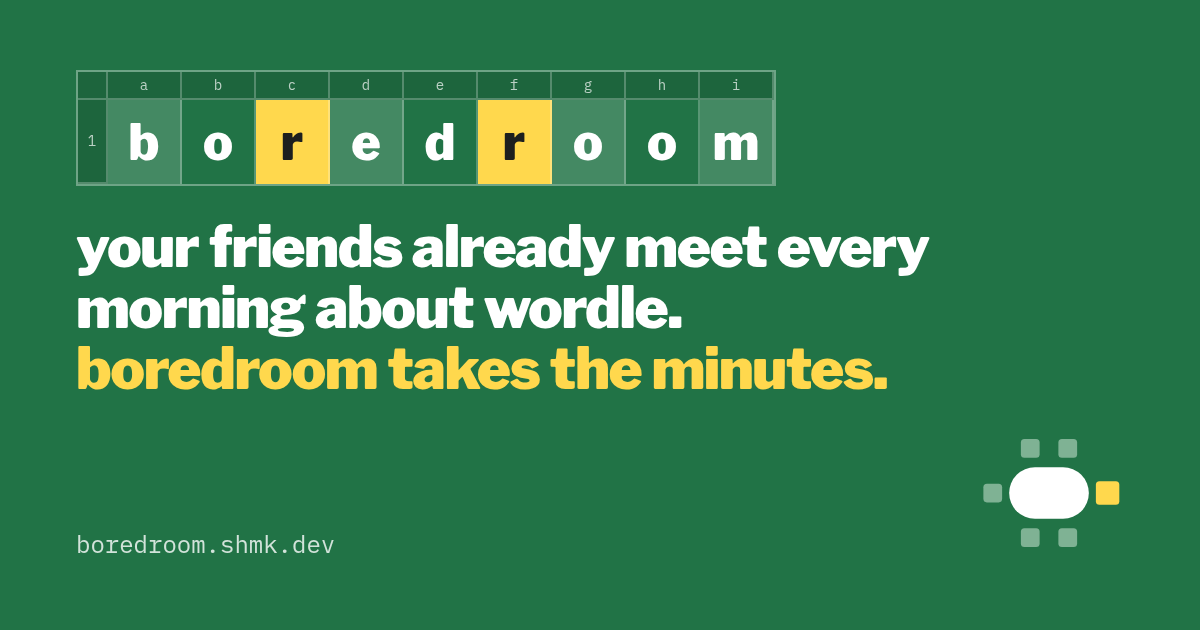
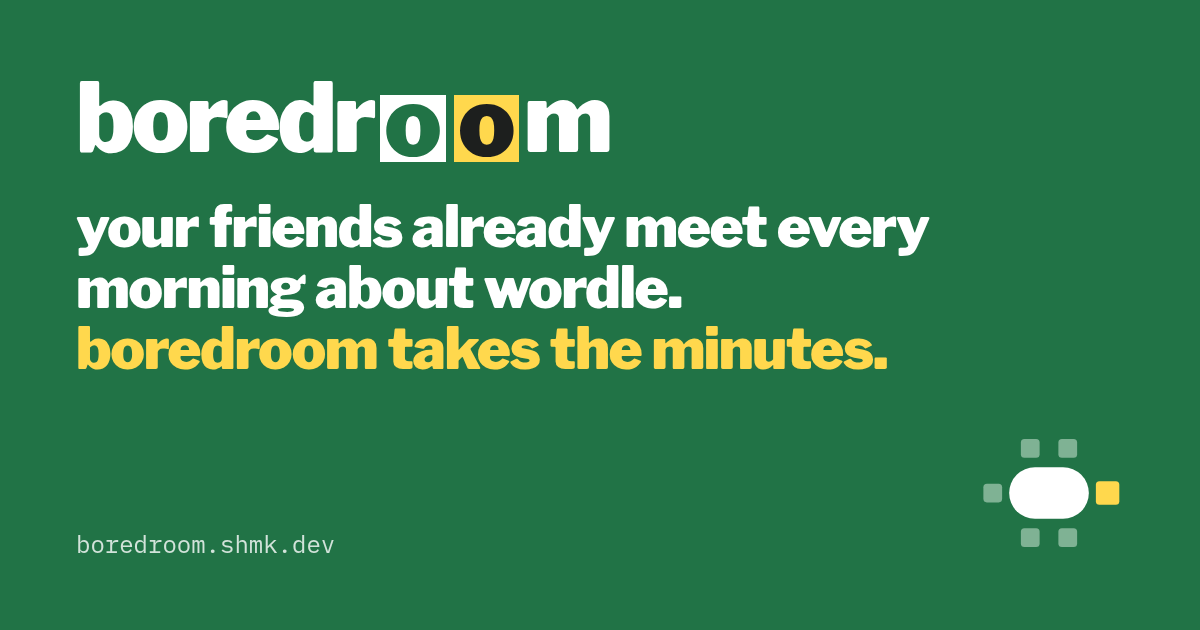
Login polish, wordmark a, animated theme switch, timezone aliases
- One logo in the room header (wordmark a, centred); the switch sits apart.
- Theme switch: a sun/moon knob that rolls across; the new theme spreads in a
  circle from the tap (view transitions; plain switch with reduced motion).
- Google's button is redrawn in a layer over the old one, so it never jumps.
- Copy: keeps the minutes, the scores, and the receipts.
- Old browser timezone names (Asia/Calcutta) are mapped, the tzdata package
  ships every zone, and an unknown zone falls back instead of failing sign-in.

Changed region(s): [[0.0617, 0.3317, 0.7708, 0.6333], [0.0617, 0.0905, 0.6475, 0.3016]]

diff --git a/web/src/styles.css b/web/src/styles.css
@@ -179,31 +179,49 @@ a { color: var(--accent); }
 @media (prefers-reduced-motion: reduce) { * { animation: none !important; } }
 
 /* ---- brand ---- */
-.wm { display: inline-grid; grid-template-columns: calc(var(--cell) * .45) repeat(9, var(--cell)); border: 1px solid var(--wm-line); font-family: "IBM Plex Mono", monospace; width: max-content; }
-.wm i, .wm b { border-right: 1px solid var(--wm-line); display: grid; place-items: center; font-style: normal; }
-.wm i:nth-child(10), .wm b:last-child { border-right: 0; }
-.wm-h { height: calc(var(--cell) * .42); font-size: calc(var(--cell) * .26); background: var(--wm-head); color: var(--wm-head-ink); border-bottom: 1px solid var(--wm-line); }
-.wm-n { height: auto; border-bottom: 0; }
-.wm-c { height: var(--cell); font: 900 calc(var(--cell) * .6) "Libre Franklin", Arial, sans-serif; background: var(--wm-n); color: var(--wm-n-ink); }
-.wm-c.g { background: var(--wm-g); color: var(--wm-g-ink); }
-.wm-c.y { background: var(--wm-y); color: var(--wm-y-ink); }
-.wm.on-dark { --wm-line: rgba(255,255,255,.3); --wm-head: rgba(0,0,0,.14); --wm-head-ink: rgba(255,255,255,.75);
-  --wm-n: transparent; --wm-n-ink: #fff; --wm-g: rgba(255,255,255,.16); --wm-g-ink: #fff; --wm-y: #ffd84d; --wm-y-ink: #1d1f1e; }
-:root[data-theme="dark"] .wm.on-dark { --wm-y: #ffd38a; --wm-g-ink: #5ee6a8; }
-@media (prefers-color-scheme: dark) { :root:not([data-theme="light"]) .wm.on-dark { --wm-y: #ffd38a; --wm-g-ink: #5ee6a8; } }
+.wm { --wm-ink: var(--ink); --c1: var(--mark-tile); --c1-ink: #fff; --c2: #ffd84d; --c2-ink: #1d1f1e;
+  display: inline-flex; align-items: baseline; font: 900 1em/1 "Libre Franklin", Arial, sans-serif; letter-spacing: -.035em;
+  color: var(--wm-ink); white-space: nowrap; }
+.wm i { font-style: normal; display: inline-block; width: .68em; height: .7em; line-height: .56em; text-align: center; letter-spacing: 0;
+  margin: 0 .045em; position: relative; top: .04em; } /* the cell hugs the o: x-height to just under the baseline */
+.wm i.c1 { background: var(--c1); color: var(--c1-ink); margin-left: .07em; }
+.wm i.c2 { background: var(--c2); color: var(--c2-ink); }
+.wm.on-room { --wm-ink: var(--room-ink); --c1: #ffffff; --c1-ink: #217346; font-size: clamp(30px, 8vw, 40px); }
+:root[data-theme="dark"] .wm { --c1: #5ee6a8; --c1-ink: #0b1a14; --c2: #ffd38a; --c2-ink: #0b1a14; }
+@media (prefers-color-scheme: dark) { :root:not([data-theme="light"]) .wm { --c1: #5ee6a8; --c1-ink: #0b1a14; --c2: #ffd38a; --c2-ink: #0b1a14; } }
+.nav-brand .wm { font-size: 22px; }
 
-.theme-tg { width: 40px; height: 40px; flex: none; display: grid; place-items: center; border-radius: 20px; cursor: pointer;
-  background: transparent; border: 1px solid var(--line); color: inherit; }
-.theme-tg:hover { background: var(--surface); }
-.hd .theme-tg { border-color: rgba(255,255,255,.3); width: 34px; height: 34px; }
-.hd .theme-tg:hover { background: rgba(255,255,255,.12); }
+/* the theme switch: a track with a sun/moon knob that rolls across; stars come out in dark */
+.theme-tg { --track: #e3ece6; --knob: #ffd84d; --knob-ink: #8a5a00; position: relative; flex: none; width: 60px; height: 32px;
+  border-radius: 16px; border: 1px solid var(--line); background: var(--track); cursor: pointer; padding: 0; overflow: hidden;
+  transition: background .4s ease, border-color .4s ease; }
+.theme-tg[data-mode="dark"] { --track: #1b2740; --knob: #dfe6ff; --knob-ink: #3b4a7a; }
+.theme-tg .knob { position: absolute; top: 3px; left: 3px; width: 24px; height: 24px; border-radius: 50%; background: var(--knob); color: var(--knob-ink);
+  display: grid; place-items: center; box-shadow: 0 1px 3px rgba(0,0,0,.25);
+  transition: transform .5s cubic-bezier(.45,1.6,.5,1), background .4s ease, color .4s ease; }
+.theme-tg[data-mode="dark"] .knob { transform: translateX(28px) rotate(-270deg); }
+.theme-tg .knob svg { position: absolute; width: 15px; height: 15px; transition: opacity .3s ease, transform .5s ease; }
+.theme-tg .moon { opacity: 0; transform: scale(.4); }
+.theme-tg[data-mode="dark"] .sun { opacity: 0; transform: scale(.4); }
+.theme-tg[data-mode="dark"] .moon { opacity: 1; transform: none; }
+.theme-tg .stars i { position: absolute; width: 3px; height: 3px; border-radius: 50%; background: #fff; opacity: 0; transform: scale(0);
+  transition: opacity .3s ease, transform .4s cubic-bezier(.45,1.6,.5,1); }
+.theme-tg .stars i:nth-child(1) { left: 10px; top: 8px; } .theme-tg .stars i:nth-child(2) { left: 19px; top: 18px; width: 2px; height: 2px; }
+.theme-tg .stars i:nth-child(3) { left: 8px; top: 21px; width: 2px; height: 2px; }
+.theme-tg[data-mode="dark"] .stars i { opacity: .9; transform: none; transition-delay: .15s; }
+.theme-tg[data-mode="dark"] .stars i:nth-child(2) { transition-delay: .25s; } .theme-tg[data-mode="dark"] .stars i:nth-child(3) { transition-delay: .32s; }
+.theme-tg:hover .knob { box-shadow: 0 0 0 4px var(--ring), 0 1px 3px rgba(0,0,0,.25); }
+.theme-tg:focus-visible { outline: 2px solid var(--accent); outline-offset: 2px; }
+.room-top .theme-tg { border-color: rgba(255,255,255,.3); }
+.room-top .theme-tg:not([data-mode="dark"]) { --track: rgba(255,255,255,.18); }
+::view-transition-old(root), ::view-transition-new(root) { animation: none; mix-blend-mode: normal; }
+@media (prefers-reduced-motion: reduce) { .theme-tg *, .theme-tg { transition: none !important; } }
 
 /* ---- sign-in: the boardroom ---- */
 .signin { min-height: 100dvh; display: flex; flex-direction: column; background: var(--bg); }
 .room { background: var(--room); color: var(--room-ink); padding: calc(env(safe-area-inset-top, 0px) + 16px) 20px 24px; display: flex; flex-direction: column; gap: 18px; }
-.room-top { display: flex; align-items: center; gap: 12px; }
-.room-top .theme-tg { margin-left: auto; border-color: rgba(255,255,255,.28); color: var(--room-ink); }
-.room-top .theme-tg:hover { background: rgba(255,255,255,.1); }
+.room-top { position: relative; display: flex; align-items: center; justify-content: center; min-height: 44px; }
+.room-top .theme-tg { position: absolute; right: 0; top: 50%; translate: 0 -50%; }
 .table-wrap { position: relative; width: 100%; max-width: 420px; margin: 0 auto; aspect-ratio: 350 / 300; }
 .table-top { position: absolute; left: 20%; top: 27.3%; width: 60%; height: 45.3%; border-radius: 999px; background: var(--room-table);
   display: flex; flex-direction: column; align-items: center; justify-content: center; gap: 3px; text-align: center; padding: 0 8px; }
@@ -218,7 +236,8 @@ a { color: var(--accent); }
 .pitch p { margin: 0; font-size: 17px; line-height: 1.45; color: var(--muted); }
 .pitch .acts { margin-top: auto; display: flex; flex-direction: column; gap: 12px; padding-top: 18px; }
 .gbtn { width: 100%; min-height: 44px; display: flex; justify-content: center; color-scheme: light; } /* else chrome paints the dark-page iframe white */
-.gbtn > div { width: 100%; display: flex; justify-content: center; }
+.gbtn > div { width: 100%; position: relative; display: grid; min-height: 44px; }
+.gbtn .glayer { grid-area: 1 / 1; display: flex; justify-content: center; }
 .alt { background: none; border: 0; color: var(--accent); font-weight: 700; font-size: 16px; padding: 10px; cursor: pointer; }
 .guest { display: flex; gap: 8px; }
 .guest .input { flex: 1; min-width: 0; height: 46px; }
@@ -230,8 +249,7 @@ a { color: var(--accent); }
   .signin { flex-direction: row; }
   .room { flex: 1.1; padding: 36px 48px; justify-content: space-between; }
   .room .table-wrap { max-width: min(100%, 84vh, 1000px); margin: auto; }
-  .room-top .wm { --cell: clamp(30px, 2.2vw, 46px) !important; }
-  .room-top svg { width: clamp(36px, 2.6vw, 54px); height: auto; }
+  .room-top .wm { font-size: clamp(40px, 3vw, 64px); }
   .seat { font-size: clamp(16px, 1.15vw, 24px); padding: .45em .8em; }
   .table-top small { font-size: clamp(13px, .85vw, 17px); }
   .table-top b { font-size: clamp(34px, 2.6vw, 56px); }

diff --git a/web/src/brand.tsx b/web/src/brand.tsx
@@ -19,30 +19,28 @@ export function TableMark({ size = 28, mono = false, tile = false }: { size?: nu
   )
 }
 
-const WORD = 'boredroom'.split('')
-const TINT = ['g', '', 'y', 'g', '', 'y', 'g', '', 'g']
-
-/** The name typed into a row of cells, with column letters a–i above it. */
-export function Wordmark({ cell = 30, onDark = false }: { cell?: number; onDark?: boolean }) {
+/** The name, with the double o as two filled cells (brand canvas: wordmark a). */
+export function Wordmark({ size, onRoom = false }: { size?: number; onRoom?: boolean }) {
   return (
-    <span className={`wm${onDark ? ' on-dark' : ''}`} role="img" aria-label="boredroom"
-      style={{ ['--cell' as string]: `${cell}px` }}>
-      <i className="wm-h" />
-      {'abcdefghi'.split('').map(c => <i key={c} className="wm-h">{c}</i>)}
-      <i className="wm-h wm-n">1</i>
-      {WORD.map((ch, k) => <b key={k} className={`wm-c ${TINT[k]}`}>{ch}</b>)}
+    <span className={`wm${onRoom ? ' on-room' : ''}`} role="img" aria-label="boredroom" style={size ? { fontSize: size } : undefined}>
+      boredr<i className="c1">o</i><i className="c2">o</i>m
     </span>
   )
 }
 
+/** A sun/moon switch. The page change itself animates from the switch (see theme.ts). */
 export function ThemeToggle({ className = '' }: { className?: string }) {
   const [, shown] = useTheme()
   const next = shown === 'dark' ? 'light' : 'dark'
   return (
-    <button className={`theme-tg ${className}`} onClick={() => setPref(next)} aria-label={`switch to ${next} mode`} title={`switch to ${next} mode`}>
-      {shown === 'dark'
-        ? <svg viewBox="0 0 24 24" width="18" height="18" fill="none" stroke="currentColor" strokeWidth="1.8" strokeLinecap="round" aria-hidden="true"><circle cx="12" cy="12" r="4" /><path d="M12 2v2M12 20v2M2 12h2M20 12h2M4.9 4.9l1.4 1.4M17.7 17.7l1.4 1.4M4.9 19.1l1.4-1.4M17.7 6.3l1.4-1.4" /></svg>
-        : <svg viewBox="0 0 24 24" width="18" height="18" fill="none" stroke="currentColor" strokeWidth="1.8" strokeLinejoin="round" aria-hidden="true"><path d="M20 14.5A8 8 0 0 1 9.5 4a8 8 0 1 0 10.5 10.5z" /></svg>}
+    <button className={`theme-tg ${className}`} data-mode={shown} role="switch" aria-checked={shown === 'dark'}
+      aria-label="dark mode" title={`switch to ${next} mode`}
+      onClick={e => setPref(next, { x: e.clientX, y: e.clientY })}>
+      <span className="stars" aria-hidden="true"><i /><i /><i /></span>
+      <span className="knob" aria-hidden="true">
+        <svg className="sun" viewBox="0 0 24 24" fill="none" stroke="currentColor" strokeWidth="2.2" strokeLinecap="round"><circle cx="12" cy="12" r="4.2" /><path d="M12 2.5v2M12 19.5v2M2.5 12h2M19.5 12h2M5.3 5.3l1.4 1.4M17.3 17.3l1.4 1.4M5.3 18.7l1.4-1.4M17.3 6.7l1.4-1.4" /></svg>
+        <svg className="moon" viewBox="0 0 24 24" fill="currentColor"><path d="M20 14.5A8 8 0 0 1 9.5 4a8 8 0 1 0 10.5 10.5z" /></svg>
+      </span>
     </button>
   )
 }

diff --git a/web/src/screens/SignIn.tsx b/web/src/screens/SignIn.tsx
@@ -1,6 +1,6 @@
 import { useEffect, useRef, useState } from 'react'
 import { api, setToken, type Invite } from '../api'
-import { TableMark, ThemeToggle, Wordmark } from '../brand'
+import { ThemeToggle, Wordmark } from '../brand'
 import { useTheme } from '../theme'
 
 declare global {
@@ -55,11 +55,17 @@ export function GoogleButton({ onToken, onError }: { onToken: (t: string) => voi
         client_id: clientId,
         callback: r => api.google(r.credential).then(x => cb.current.onToken(x.token)).catch(e => cb.current.onError(e.message)),
       })
-      el.current.innerHTML = ''
-      window.google.accounts.id.renderButton(el.current, {
+      // draw the new button in a fresh layer on top, and drop the old one once google's
+      // frame has loaded; clearing first made the button collapse and jump
+      const host = el.current
+      const layer = document.createElement('div')
+      layer.className = 'glayer'
+      host.appendChild(layer)
+      window.google.accounts.id.renderButton(layer, {
         theme: shown === 'dark' ? 'filled_black' : 'outline', size: 'large', shape: 'pill',
         text: 'continue_with', logo_alignment: 'center', width: Math.max(200, Math.min(400, width)),
       })
+      setTimeout(() => { if (live) for (const old of [...host.children]) if (old !== layer) old.remove() }, 700)
     }).catch(e => live && cb.current.onError(e.message))
     return () => { live = false }
   }, [clientId, shown, width])
@@ -96,7 +102,7 @@ export default function SignIn({ invite, onSignedIn }: { invite?: Invite | null;
           ? <><h1>{invite.chair ?? 'someone'} saved you a seat on {invite.name}.</h1>
               <p>{invite.members} members{invite.library.length ? `, playing ${invite.library.slice(0, 3).join(', ')}${invite.library.length > 3 ? ` and ${invite.library.length - 3} more` : ''}` : ''}. sign in to take your seat.</p></>
           : <><h1>there's an empty chair at your friends' table.</h1>
-              <p>paste your daily puzzles like you always do. boredroom keeps the minutes, the rivalries and the streaks.</p></>}
+              <p>paste your daily puzzles like you always do. boredroom keeps the minutes, the scores, and the receipts.</p></>}
         <div className="acts">
           <GoogleButton onToken={done} onError={setErr} />
           {!guestOpen
@@ -124,8 +130,7 @@ export function Room({ top, big, bottom }: { top: string; big: string; bottom: s
   return (
     <section className="room" aria-label="the boardroom">
       <div className="room-top">
-        <TableMark size={30} mono />
-        <Wordmark cell={24} onDark />
+        <Wordmark onRoom />
         <ThemeToggle />
       </div>
       <div className="table-wrap" aria-hidden="true">

diff --git a/web/src/screens/You.tsx b/web/src/screens/You.tsx
@@ -18,8 +18,14 @@ export default function You({ slug }: { slug: string }) {
   useEffect(() => { api.board(slug).then(x => { setB(x); setNick(x.you.nickname) }).catch(e => setErr(e.message)) }, [slug])
   useEffect(() => { if (location.hash === '#seats') document.getElementById('seats')?.scrollIntoView() }, [b])
 
-  const browserTz = Intl.DateTimeFormat().resolvedOptions().timeZone
-  const zones = useMemo(() => (Intl as unknown as { supportedValuesOf?: (k: string) => string[] }).supportedValuesOf?.('timeZone') ?? [], [])
+  const deviceTz = Intl.DateTimeFormat().resolvedOptions().timeZone
+  const browserTz = OLD_ZONES[deviceTz] ?? deviceTz
+  // chrome lists some zones by their old names (asia/calcutta); show the current ones
+  const zones = useMemo(() => {
+    const all = (Intl as unknown as { supportedValuesOf?: (k: string) => string[] }).supportedValuesOf?.('timeZone') ?? []
+    const fixed = all.map(z => OLD_ZONES[z] ?? z)
+    return fixed.includes(me.tz) ? fixed : [me.tz, ...fixed]
+  }, [me.tz])
   if (err) return <div className="app"><Header title="you.xlsx" /><div className="center err">{err}</div></div>
   if (!b) return <div className="app"><Header title="you.xlsx" meta={me.username} /><Loading what="your seat" /></div>
 
@@ -140,3 +146,5 @@ function confirmClaim(nickname: string): boolean {
   // a real dialog would be nicer; this keeps it to one tap plus a check
   return window.confirm(`claim ${nickname}'s seat? their history becomes yours.`)
 }
+
+const OLD_ZONES: Record<string, string> = { 'Asia/Calcutta': 'Asia/Kolkata', 'Asia/Saigon': 'Asia/Ho_Chi_Minh', 'Asia/Katmandu': 'Asia/Kathmandu', 'Asia/Rangoon': 'Asia/Yangon', 'Europe/Kiev': 'Europe/Kyiv' }

diff --git a/web/src/theme.ts b/web/src/theme.ts
@@ -22,9 +22,24 @@ function apply(p: Pref) {
   window.dispatchEvent(new Event('boredroom:theme'))
 }
 
-export function setPref(p: Pref) {
+type VT = { ready: Promise<void> }
+type DocVT = Document & { startViewTransition?: (cb: () => void) => VT }
+
+/** Saves and applies the preference. Given where the tap was, the new theme spreads out
+ *  from there in a circle (view transitions); otherwise, or with reduced motion, it just switches. */
+export function setPref(p: Pref, from?: { x: number; y: number }) {
   try { if (p === 'system') localStorage.removeItem(KEY); else localStorage.setItem(KEY, p) } catch { /* private mode */ }
-  apply(p)
+  const doc = document as DocVT
+  const calm = window.matchMedia('(prefers-reduced-motion: reduce)').matches
+  if (!doc.startViewTransition || calm) { apply(p); return }
+  const x = from?.x ?? innerWidth / 2, y = from?.y ?? 0
+  const r = Math.hypot(Math.max(x, innerWidth - x), Math.max(y, innerHeight - y))
+  doc.startViewTransition(() => apply(p)).ready.then(() => {
+    document.documentElement.animate(
+      { clipPath: [`circle(0px at ${x}px ${y}px)`, `circle(${r}px at ${x}px ${y}px)`] },
+      { duration: 520, easing: 'cubic-bezier(.4,0,.2,1)', pseudoElement: '::view-transition-new(root)' },
+    )
+  }).catch(() => {})
 }
 
 /** [the preference, what's showing]; re-renders on change and when the device flips. */

diff --git a/web/src/ui.tsx b/web/src/ui.tsx
@@ -2,7 +2,7 @@ import { createContext, useContext, useEffect, useRef, useState, type ReactNode 
 import type { Game, Me } from './api'
 import { hue } from './format'
 import { go } from './router'
-import { TableMark, ThemeToggle } from './brand'
+import { TableMark, ThemeToggle, Wordmark } from './brand'
 
 export type Ctx = {
   me: Me
@@ -43,7 +43,7 @@ export function Nav({ slug, on, temp }: { slug: string; on: 'agenda' | 'review' 
     <nav className="nav">
       <div className="nav-brand wide-only">
         <TableMark size={30} tile />
-        <span>boredroom</span>
+        <Wordmark size={22} />
       </div>
       <button className={on === 'agenda' && !temp ? 'on' : ''} onClick={() => go(`/b/${slug}`)}>agenda</button>
       <button disabled title="coming in the next milestone">review</button>

diff --git a/server/boredroom/auth.py b/server/boredroom/auth.py
@@ -29,6 +29,20 @@ def issue_token(s: Session, person: Person, device: str | None = None) -> str:
     return token
 
 
+# browsers still report some old zone names; store the current one
+TZ_ALIASES = {"Asia/Calcutta": "Asia/Kolkata", "Asia/Saigon": "Asia/Ho_Chi_Minh", "Asia/Katmandu": "Asia/Kathmandu",
+              "Asia/Rangoon": "Asia/Yangon", "Europe/Kiev": "Europe/Kyiv", "America/Buenos_Aires": "America/Argentina/Buenos_Aires",
+              "US/Eastern": "America/New_York", "US/Central": "America/Chicago", "US/Mountain": "America/Denver",
+              "US/Pacific": "America/Los_Angeles"}
+
+
+def browser_tz(tz: str | None, default: str) -> str:
+    """The timezone a browser sent, tidied: aliases become current names, and anything
+    unknown becomes the default. Signing in never fails over a timezone; it's editable."""
+    tz = TZ_ALIASES.get(tz or "", tz or "")
+    return tz if tz and valid_tz(tz) else default
+
+
 def valid_tz(tz: str) -> bool:
     try:
         ZoneInfo(tz)
@@ -45,8 +59,6 @@ def create_guest(s: Session, username: str | None, tz: str, device: str | None =
         fail(400, "usernames are 2–30 characters: letters, digits, . _ -")
     if s.scalar(select(Person.id).where(Person.username == username)):
         fail(409, "that username is taken")
-    if not valid_tz(tz):
-        fail(400, f"unknown timezone {tz}")
     person = Person(username=username, kind="guest", tz=tz)
     s.add(person)
     s.flush()
@@ -123,8 +135,6 @@ def sign_in_google(s: Session, who: GoogleId, tz: str, seat: Person | None,
         if seat is not None and seat.kind == "guest":
             person = seat
         else:
-            if not valid_tz(tz):
-                fail(400, f"unknown timezone {tz}")
             person = Person(username=username_for(s, who.email), tz=tz)
             s.add(person)
             created = True

diff --git a/server/boredroom/api.py b/server/boredroom/api.py
@@ -43,7 +43,7 @@ def me_json(p: Person) -> dict[str, Any]:
 @api.post("/guests")
 def new_guest():
     b = body()
-    tz = b.get("tz") or current_app.config["BOREDROOM"].default_tz
+    tz = auth.browser_tz(b.get("tz"), current_app.config["BOREDROOM"].default_tz)
     person, token = create_guest(g.db, b.get("username"), tz, request.headers.get("User-Agent", "")[:200])
     g.db.commit()
     return jsonify({"token": token, "me": me_json(person)}), 201
@@ -69,7 +69,7 @@ def google_sign_in():
     verify = current_app.config.get("GOOGLE_VERIFY", auth.verify_google)  # swapped in tests
     who = verify(credential, client_id)
     row = auth.token_row(g.db, auth.bearer())
-    tz = b.get("tz") or current_app.config["BOREDROOM"].default_tz
+    tz = auth.browser_tz(b.get("tz"), current_app.config["BOREDROOM"].default_tz)
     person, token, created = auth.sign_in_google(
         g.db, who, tz, row.person if row else None, request.headers.get("User-Agent", "")[:200])
     g.db.commit()
@@ -95,9 +95,10 @@ def me():
 def update_me():
     b = body()
     if "tz" in b:
-        if not valid_tz(b["tz"]):
+        tz = auth.TZ_ALIASES.get(b["tz"], b["tz"])
+        if not valid_tz(tz):
             fail(400, f"unknown timezone {b['tz']}")
-        g.person.tz = b["tz"]
+        g.person.tz = tz
     if "username" in b:
         name = str(b["username"]).strip().lower()
         if not USERNAME.match(name):

diff --git a/server/tests/api/test_google.py b/server/tests/api/test_google.py
@@ -76,3 +76,11 @@ def test_sign_out_revokes_the_token(seat):
     a = seat("ivan")
     assert a.post("/auth/signout").json == {"signed_out": True}
     assert a.get("/me").status_code == 401
+
+
+def test_old_timezone_names_and_junk_never_block_sign_in(app, client):
+    google(app, IVAN)
+    me = sign_in(client, "good:0", tz="Asia/Calcutta").json["me"]
+    assert me["tz"] == "Asia/Kolkata"
+    r = client.post("/api/v1/guests", json={"username": "drifter", "tz": "Mars/Olympus"})
+    assert r.status_code == 201 and r.json["me"]["tz"] == "Asia/Kolkata"
